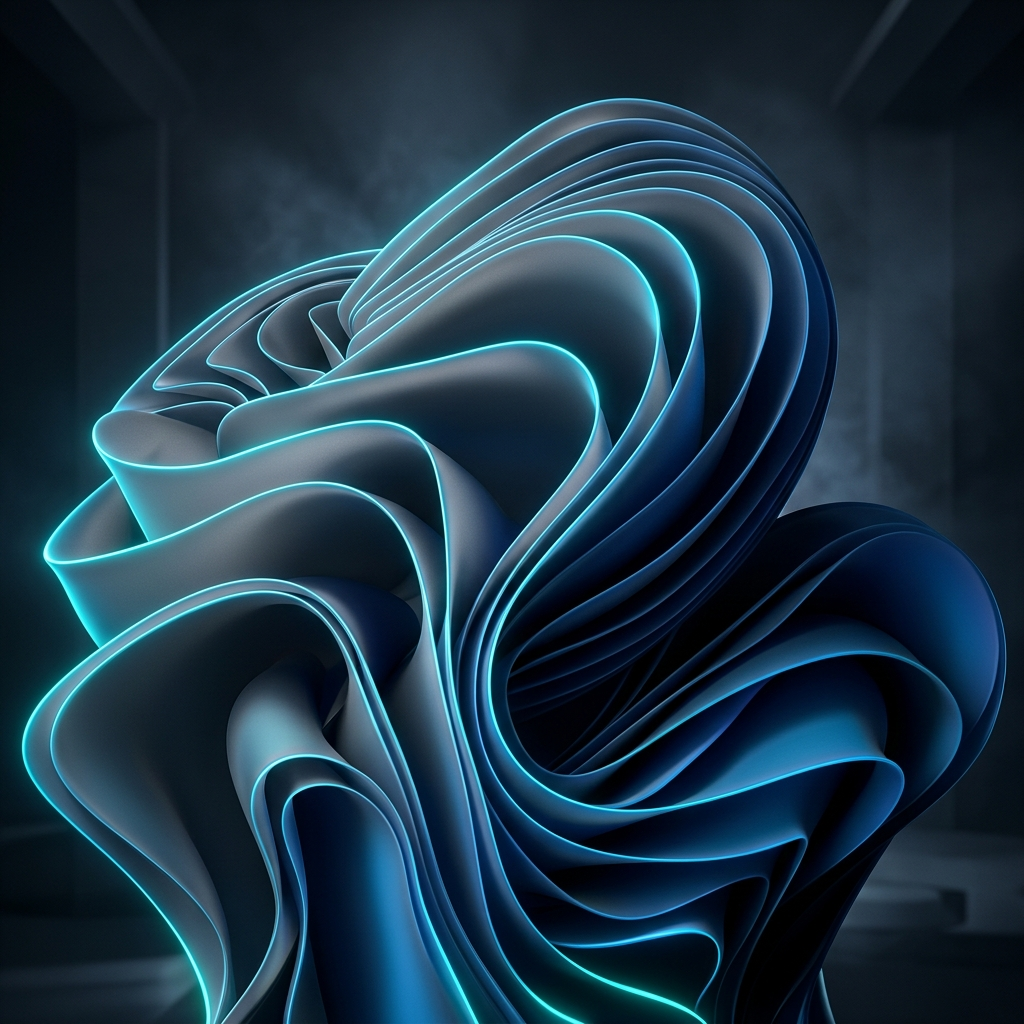
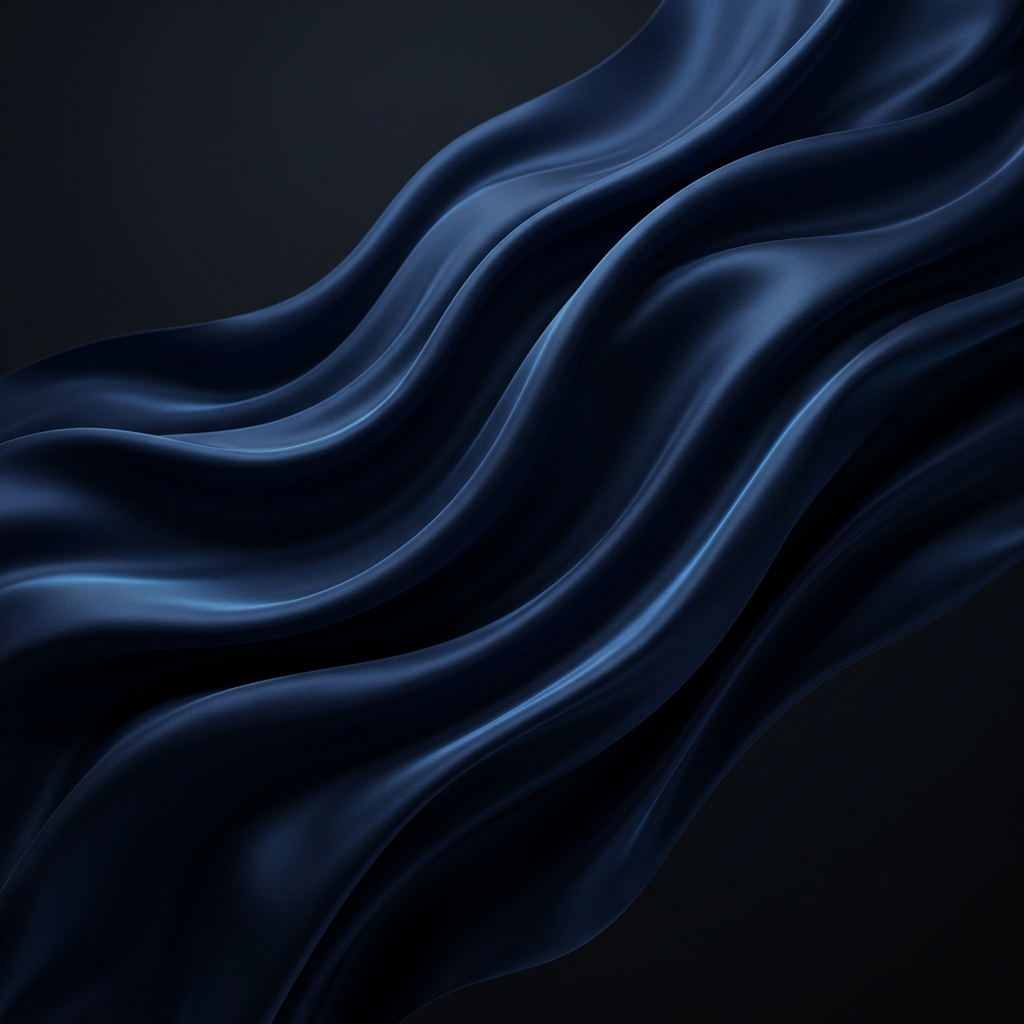
fix: restore metrics padding and update background to silk variant

diff --git a/src/components/Hero.tsx b/src/components/Hero.tsx
@@ -77,7 +77,8 @@ export const Hero: React.FC<HeroProps> = ({ onExploreProjects }) => {
       </div>
 
       {/* Quick Metrics Bar */}
-      <div className="w-full grid grid-cols-2 sm:grid-cols-4 gap-4 pt-12 border-t border-white/10 mt-16 relative z-10">
+      <div className="max-w-[1440px] mx-auto w-full px-5 md:px-16 relative z-10 mt-16">
+        <div className="w-full grid grid-cols-2 sm:grid-cols-4 gap-4 pt-12 border-t border-white/10">
         <div className="flex flex-col">
           <EditableText
             tag="span"
@@ -134,6 +135,7 @@ export const Hero: React.FC<HeroProps> = ({ onExploreProjects }) => {
             onSave={async (val) => await updateSetting('heroMetric4Label', val)}
           />
         </div>
+      </div>
       </div>
     </section>
   );
